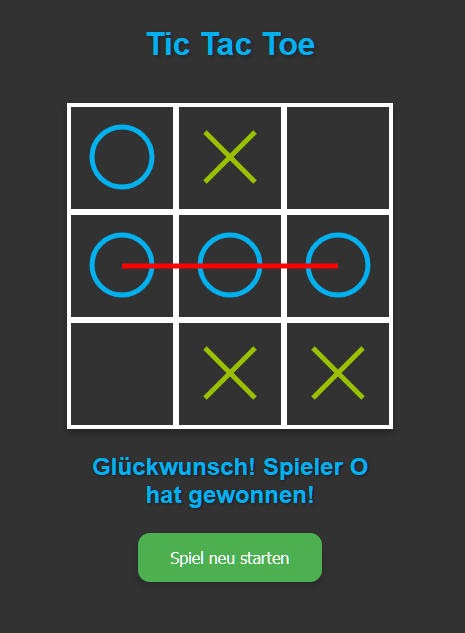
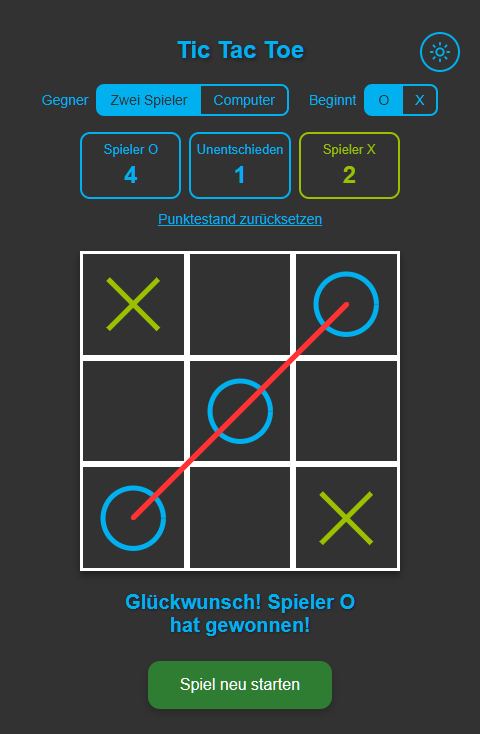
docs: rewrite README and refresh screenshot

Changed region(s): [[0.0903, 0.03, 0.9634, 0.9905], [0.7527, 0.5403, 0.7828, 0.5703]]

diff --git a/README.md b/README.md
@@ -1,9 +1,11 @@
 # Tic Tac Toe
 
-> A sleek, animated Tic Tac Toe built with pure HTML, CSS & JavaScript — no framework, no build step.
+> A sleek, animated Tic Tac Toe built with vanilla HTML, CSS and JavaScript — no framework, no build step.
+
+**[▶ Play the live demo](https://mihaelaaghirculesei.github.io/Tic-Tac-Toe/)**
 
 <p align="center">
-  <img src="tic_tac_toe.png" alt="Tic Tac Toe Screenshot" width="350">
+  <img src="tic_tac_toe.png" alt="Tic Tac Toe board with a diagonal win for player O" width="360">
 </p>
 
 ![HTML5](https://img.shields.io/badge/HTML5-E34F26?style=flat&logo=html5&logoColor=white)
@@ -12,40 +14,62 @@
 
 ## Features
 
-- **SVG-drawn symbols** — X and O animate onto the board as if hand-drawn
-- **Dynamic winning line** — a red line sweeps across the winning combination
-- **Confetti celebration** — canvas-confetti burst on victory
-- **Fully responsive** — plays great on desktop and mobile
-- **Zero build step** — plain ES modules, served as they are
+- **Two players or vs. computer** — the computer uses minimax with alpha-beta pruning and never loses
+- **Choose who starts** — O or X; in computer mode X is the computer
+- **Persistent scoreboard** — wins and draws are kept in `localStorage`
+- **Animated SVG marks** — X and O are drawn onto the board stroke by stroke
+- **Responsive winning line** — drawn in a scalable SVG overlay, so it stays aligned on resize and rotation
+- **Light and dark theme** — follows the system preference, can be toggled and is remembered
+- **Accessible** — real buttons, arrow-key navigation, screen reader announcements and `prefers-reduced-motion` support
+- **Confetti** on victory via [canvas-confetti](https://github.com/catdad/canvas-confetti) (optional: the game works without it)
 
 ## Tech Stack
 
-| Layer   | Technology                                           |
-| ------- | ---------------------------------------------------- |
-| Markup  | Semantic HTML5                                       |
-| Styling | CSS3 Custom Properties, Keyframe Animations, Flexbox |
-| Logic   | Vanilla ES modules, pure game logic with unit tests  |
-| Effects | canvas-confetti (CDN)                                |
+| Layer   | Technology                                               |
+| ------- | -------------------------------------------------------- |
+| Markup  | HTML5 (buttons, form controls, ARIA live region)         |
+| Styling | CSS custom properties, CSS Grid, keyframe animations     |
+| Logic   | Vanilla JavaScript ES modules, pure game/AI logic        |
+| Tooling | Node's built-in test runner, ESLint, Prettier (dev only) |
+| Effects | canvas-confetti 1.9.4 from jsDelivr, pinned with SRI     |
 
-## Quick Start
+## Getting Started
 
 The game uses ES modules, which browsers do not load from `file://`. Serve the folder with any static server:
 
 ```bash
 git clone https://github.com/MihaelaAghirculesei/Tic-Tac-Toe.git
 cd Tic-Tac-Toe
-npx serve .          # or: python -m http.server
+npm start            # runs "npx serve ." — or: python -m http.server
 ```
+
+Then open the printed URL (e.g. http://localhost:3000).
 
 ## Development
 
 ```bash
-npm install
-npm test
+npm install          # dev tools only (ESLint, Prettier)
+npm test             # unit tests for game logic, score and computer player
 npm run lint
-npm run format:check
+npm run format
+```
+
+## Project Structure
+
+```
+index.html          markup and inline theme bootstrap
+style.css           themes, layout and animations
+js/
+  game.js           pure game rules (no DOM) — board, moves, win/draw detection
+  ai.js             unbeatable computer player (negamax + alpha-beta)
+  score.js          scoreboard logic
+  storage.js        safe localStorage helpers
+  view.js           board rendering, winning line, keyboard navigation
+  theme.js          light/dark toggle
+  main.js           app controller wiring everything together
+tests/              node:test unit tests
 ```
 
 ## License
 
-MIT
+[MIT](LICENSE)
